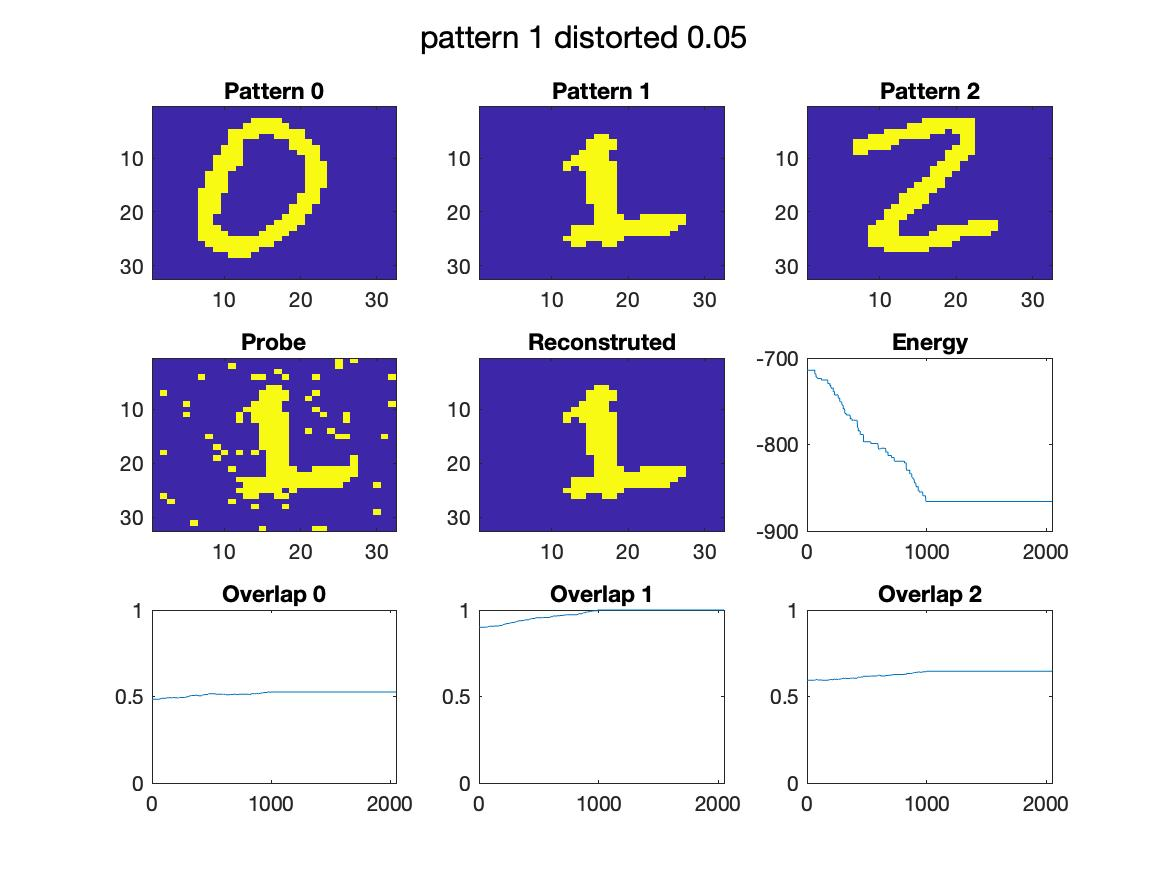
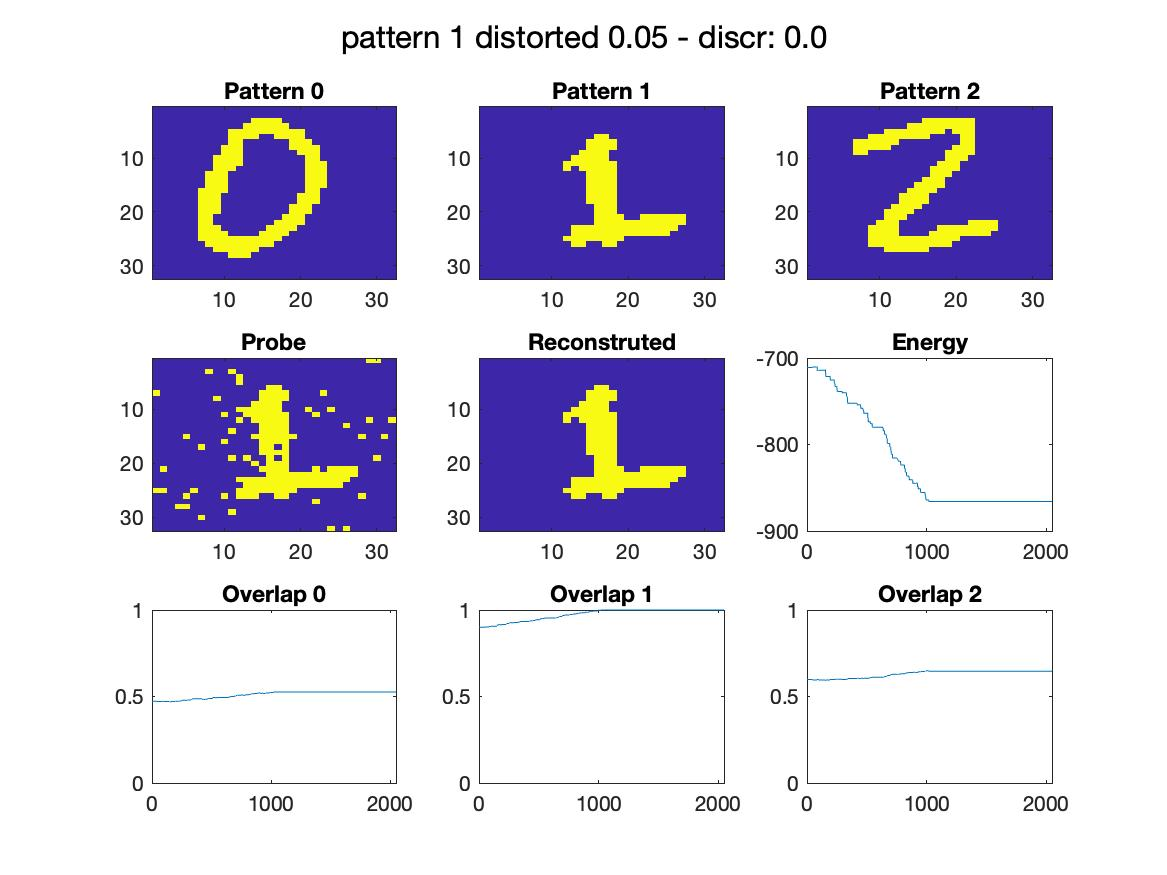
reworked assignment on hopfield network

diff --git a/LAB2_2/hopfield.m b/LAB2_2/hopfield.m
@@ -28,56 +28,48 @@ M = size(XI,2);
 %% STORAGE PHASE
 W = ( ( XI * XI') - M * eye(N,N) )/N ;
 
-b = zeros(N,1);
-
-% values of bias found by trial and error. I started from 
-% b = sum(XI(:,mu))
-for mu = 1:M
-    b = b + xi(mu) ; 
-end
-b = -(b/M);
-
-
+% values of bias found by trial and error. I started from b = sum(XI,2)/N.
+b = -sum(XI,2)/M;
 
 %% RETRIEVAL PHASE
 probe = distort_image( xi(1), 0.05);
 [x,j,E,O] = retrieve(probe,10);
-plot_results(probe,x,E,O,'pattern 2 distorted 0.05')
+plot_results(probe,x,E,O,1,'pattern 0 distorted 0.05' )
 
 probe = distort_image( xi(1), 0.1);
 [x,j,E,O] = retrieve(probe,10);
-plot_results(probe,x,E,O,'pattern 2 distorted 0.1')
+plot_results(probe,x,E,O,1,'pattern 0 distorted 0.1')
 
 probe = distort_image( xi(1), 0.25);
 [x,j,E,O] = retrieve(probe,10);
-plot_results(probe,x,E,O,'pattern 2 distorted 0.25')
+plot_results(probe,x,E,O,1,'pattern 0 distorted 0.25')
 
 probe = distort_image( xi(2), 0.05);
 [x,j,E,O] = retrieve(probe,10);
-plot_results(probe,x,E,O,'pattern 2 distorted 0.05')
+plot_results(probe,x,E,O,2,'pattern 1 distorted 0.05')
 
 probe = distort_image( xi(2), 0.1);
 [x,j,E,O] = retrieve(probe,10);
-plot_results(probe,x,E,O,'pattern 2 distorted 0.1')
+plot_results(probe,x,E,O,2,'pattern 1 distorted 0.1')
 
 probe = distort_image( xi(2), 0.25);
 [x,j,E,O] = retrieve(probe,10);
-plot_results(probe,x,E,O,'pattern 2 distorted 0.25')
+plot_results(probe,x,E,O,2,'pattern 1 distorted 0.25')
 
 probe = distort_image( xi(3), 0.05);
 [x,j,E,O] = retrieve(probe,10);
-plot_results(probe,x,E,O,'pattern 2 distorted 0.05')
+plot_results(probe,x,E,O,3,'pattern 3 distorted 0.05')
 
 probe = distort_image( xi(3), 0.1);
 [x,j,E,O] = retrieve(probe,10);
-plot_results(probe,x,E,O,'pattern 2 distorted 0.1')
+plot_results(probe,x,E,O,3,'pattern 3 distorted 0.1')
 
 probe = distort_image( xi(3), 0.25);
 [x,j,E,O] = retrieve(probe,10);
-plot_results(probe,x,E,O,'pattern 2 distorted 0.25')
+plot_results(probe,x,E,O,3,'pattern 3 distorted 0.25')
 
 %% AUXILIARY FUNCTIONS
-function plot_results(probe,x,E,O,filename)
+function plot_results(probe,x,E,O,mu,filename)
     subplot(3,3,4);
     imagesc( reshape( probe, 32, 32) );
     title('Probe')
@@ -100,7 +92,8 @@ function plot_results(probe,x,E,O,filename)
     ylim([0,1])
     title('Overlap 2')
     
-    sgtitle(filename)
+    t = [filename, sprintf(' - discr: %0.1f',norm(x-xi(mu)))];
+    sgtitle(t)
     saveas(gcf, append('imgs/' ,filename, '.jpg') );
 end
 
